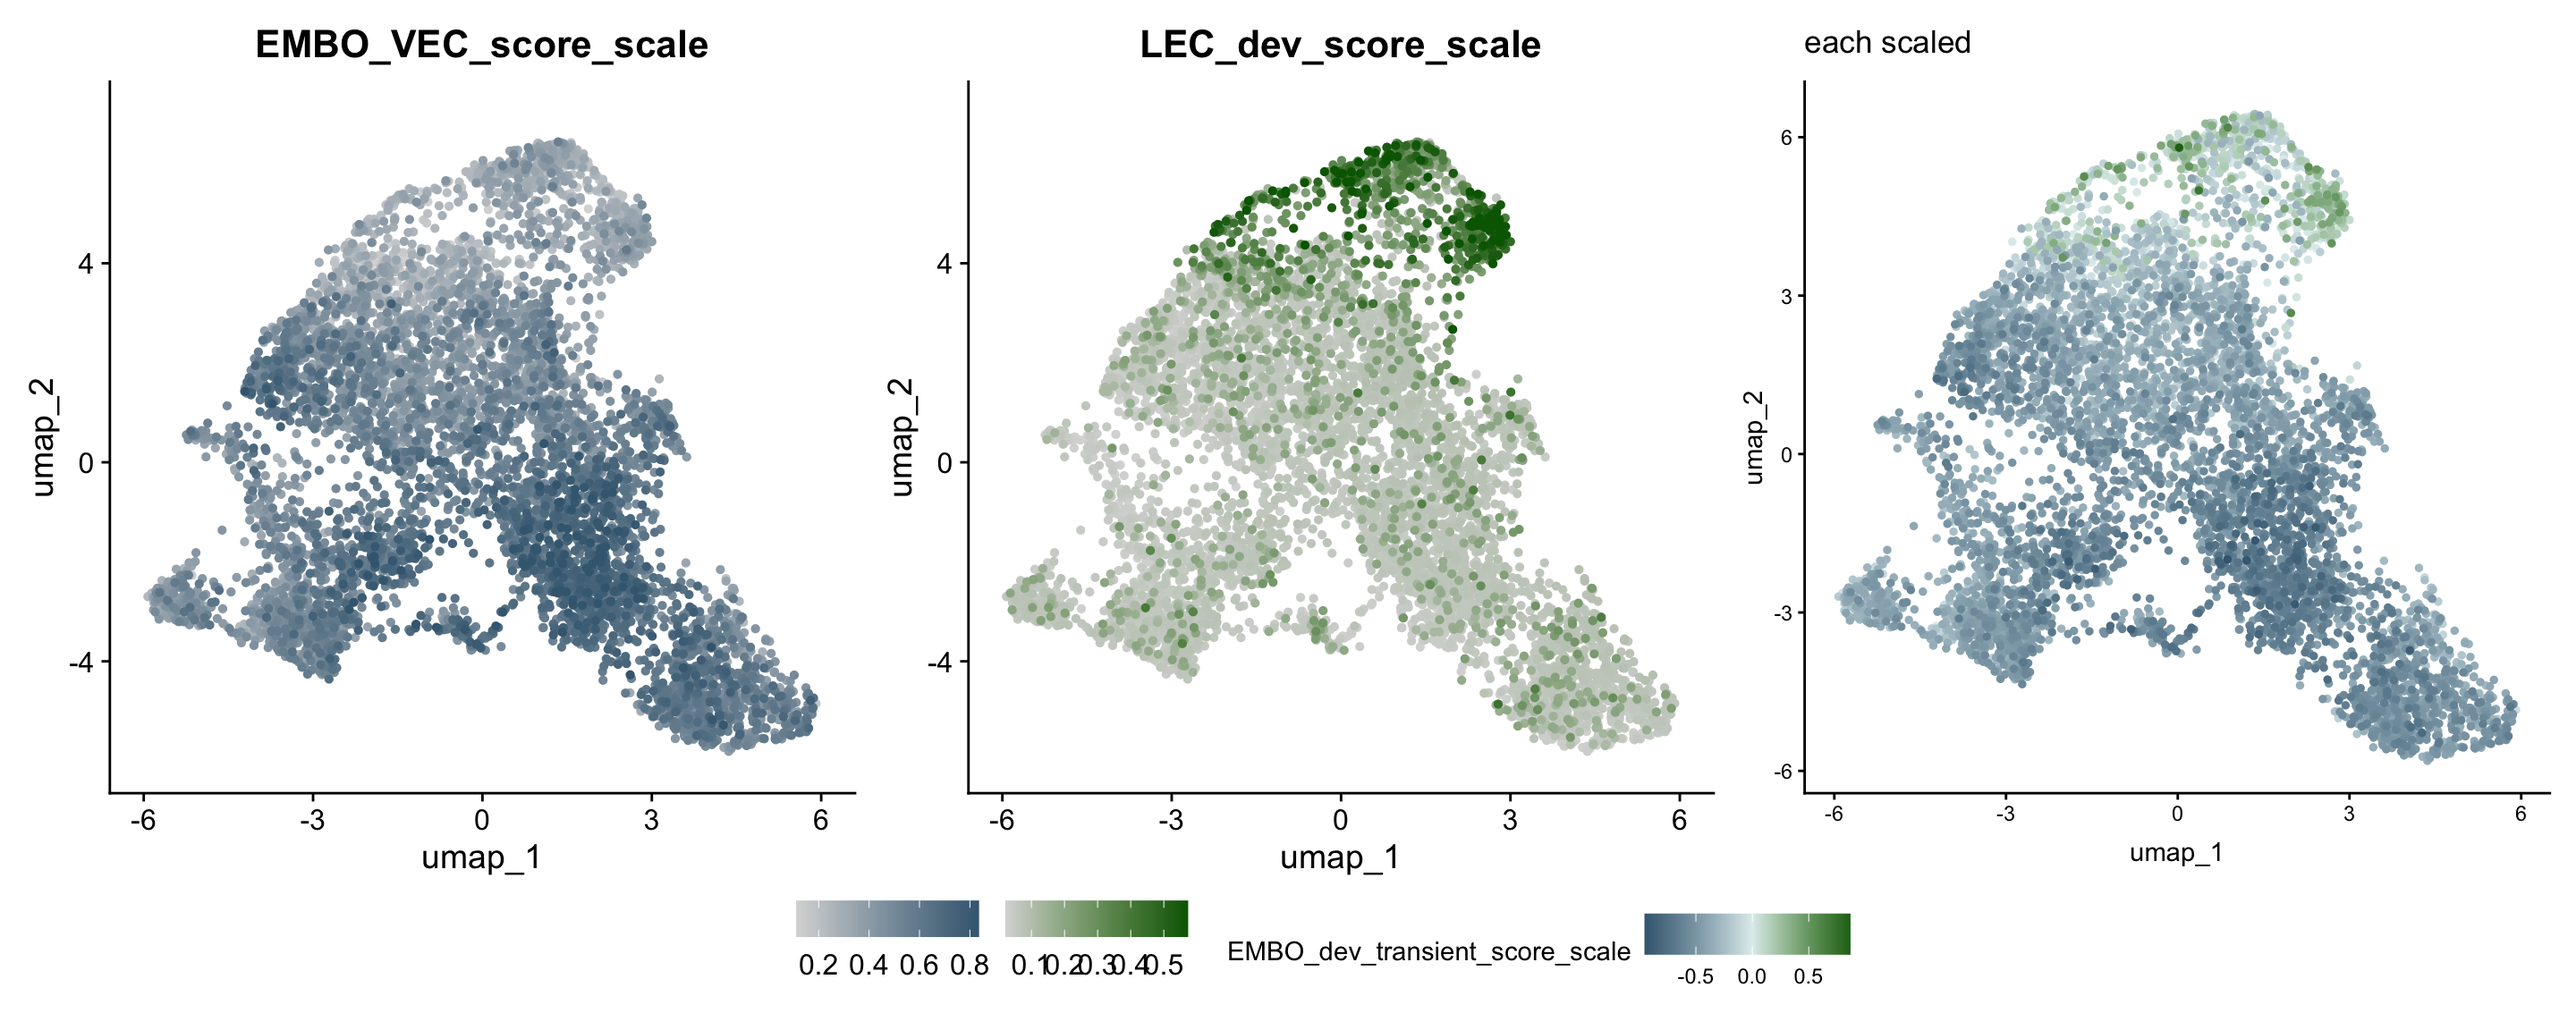
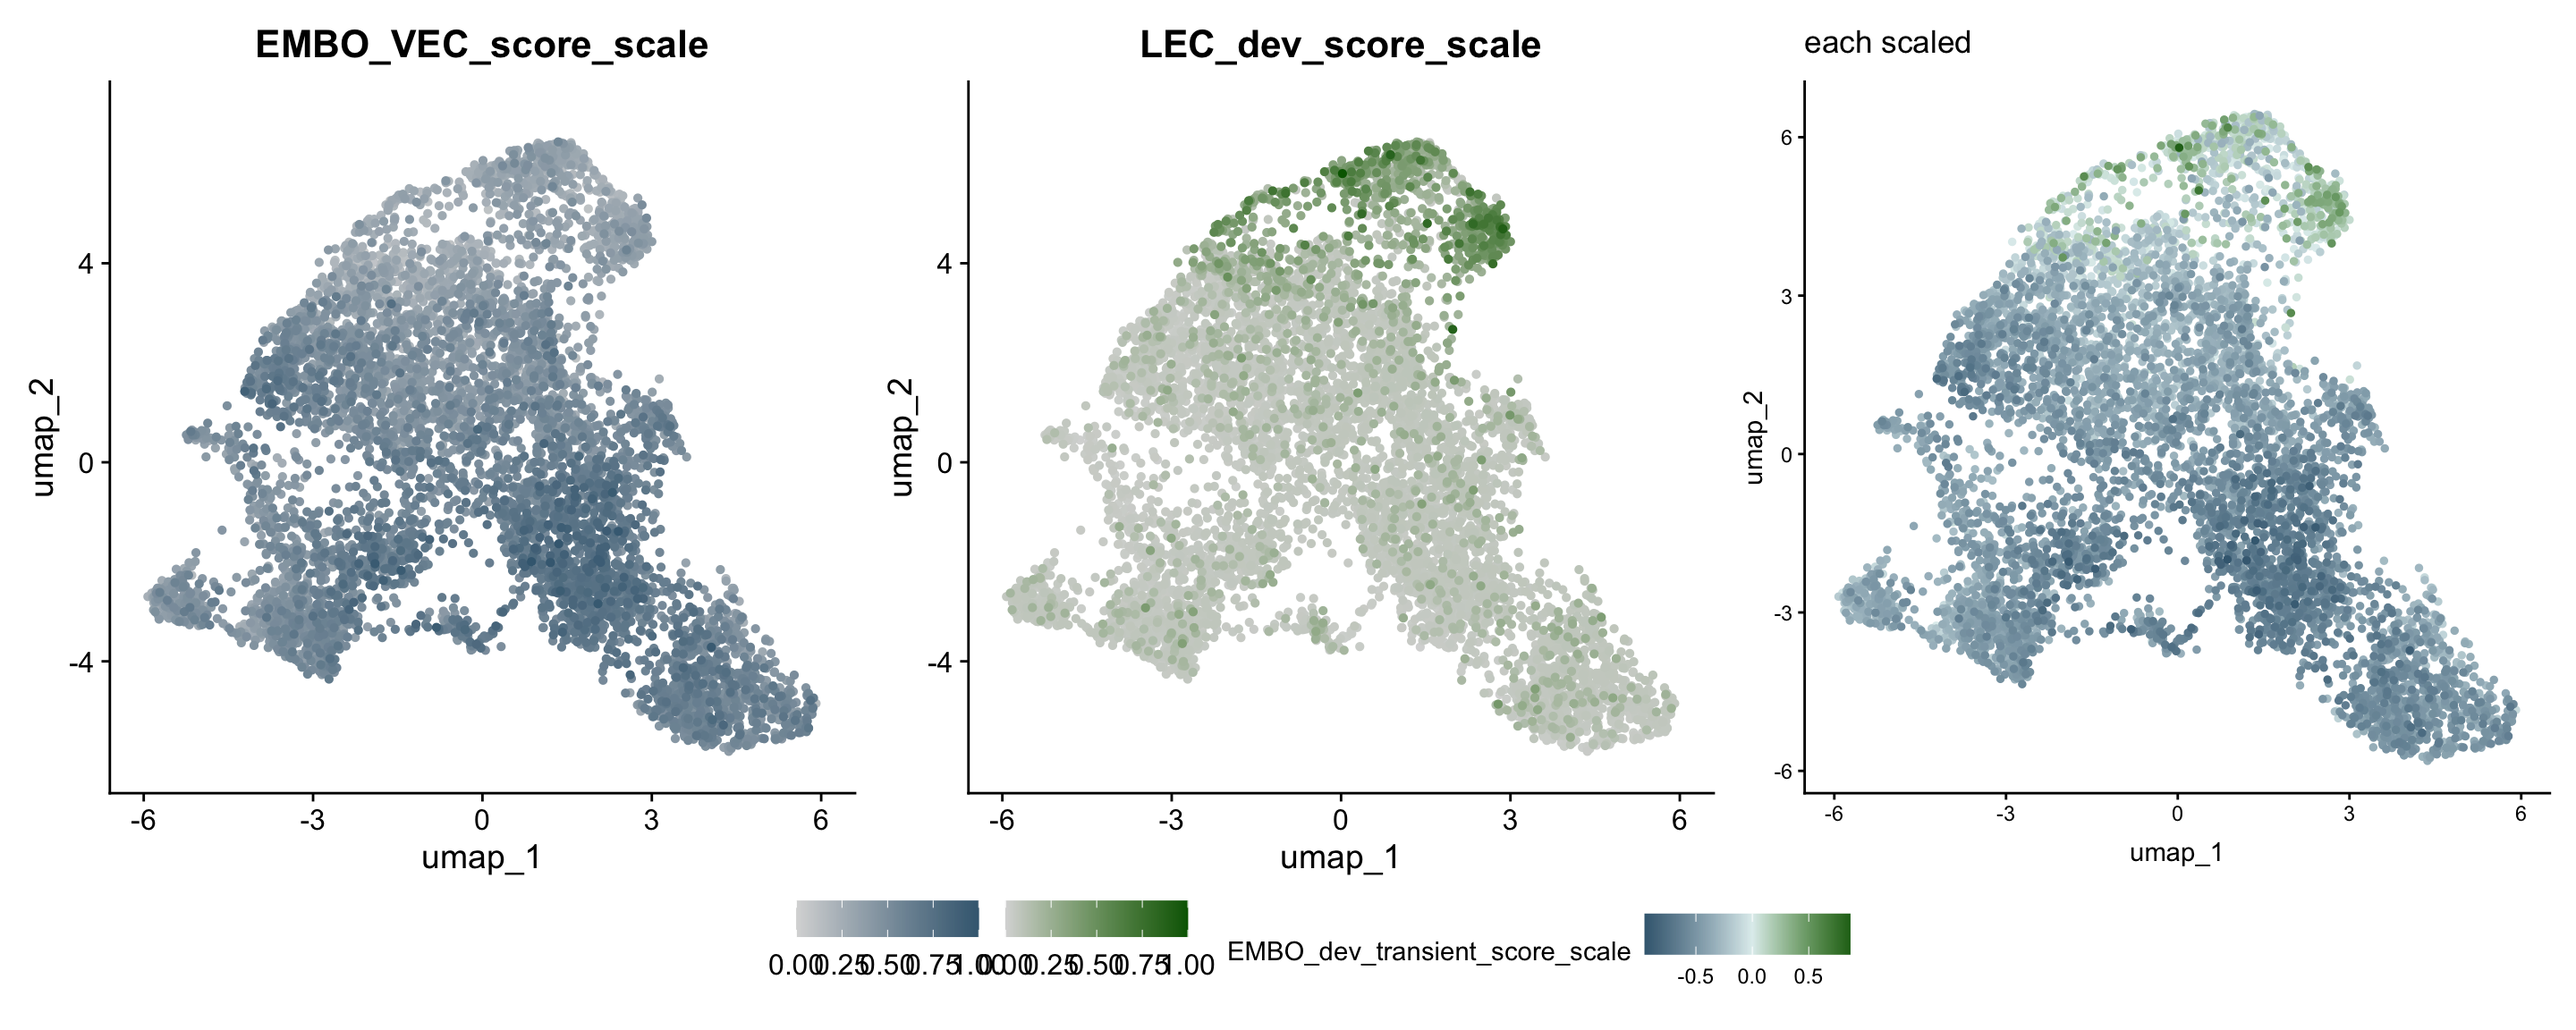
Build site.

diff --git a/docs/exploration_D10025_yap1_dataset_transition_scores.html b/docs/exploration_D10025_yap1_dataset_transition_scores.html
@@ -528,15 +528,15 @@ project makes it easier to run your code on other machines.</p>
 <div class="panel panel-default">
 <div class="panel-heading">
 <p class="panel-title">
-<a data-toggle="collapse" data-parent="#workflowr-checks" href="#strongRepositoryversionstrongahrefsshgitatlassianpetermacorgau7999hlwflowyap1meox1papertree27ec953de81e7f73925a90fb972334a59e62b94btargetblank27ec953a">
+<a data-toggle="collapse" data-parent="#workflowr-checks" href="#strongRepositoryversionstrongahrefsshgitatlassianpetermacorgau7999hlwflowyap1meox1papertreed6cf8936c0a8ba2f8e07a0d5eddda729df96978btargetblankd6cf893a">
 <span class="glyphicon glyphicon-ok text-success"
 aria-hidden="true"></span> <strong>Repository version:</strong>
-<a href="ssh://git@atlassian.petermac.org.au:7999/hl/wflow_yap1_meox1_paper/tree/27ec953de81e7f73925a90fb972334a59e62b94b" target="_blank">27ec953</a>
+<a href="ssh://git@atlassian.petermac.org.au:7999/hl/wflow_yap1_meox1_paper/tree/d6cf8936c0a8ba2f8e07a0d5eddda729df96978b" target="_blank">d6cf893</a>
 </a>
 </p>
 </div>
 <div
[2 lines of base64/hex data omitted]
 class="panel-collapse collapse">
 <div class="panel-body">
 <p>
@@ -546,7 +546,7 @@ reproducibility.
 </p>
 <p>
 The results in this page were generated with repository version
-<a href="ssh://git@atlassian.petermac.org.au:7999/hl/wflow_yap1_meox1_paper/tree/27ec953de81e7f73925a90fb972334a59e62b94b" target="_blank">27ec953</a>.
+<a href="ssh://git@atlassian.petermac.org.au:7999/hl/wflow_yap1_meox1_paper/tree/d6cf8936c0a8ba2f8e07a0d5eddda729df96978b" target="_blank">d6cf893</a>.
 See the <em>Past versions</em> tab to see a history of the changes made
 to the R Markdown and HTML files.
 </p>
@@ -565,7 +565,6 @@ Ignored files:
     Ignored:    .Rhistory
     Ignored:    .Rproj.user/
     Ignored:    analysis/.DS_Store
-    Ignored:    analysis/figure/
     Ignored:    code/.DS_Store
     Ignored:    code/scRNAseq/.DS_Store
     Ignored:    code/scRNAseq/analysis/.DS_Store
@@ -626,6 +625,40 @@ Message
 </tr>
 </thead>
 <tbody>
+<tr>
+<td>
+Rmd
+</td>
+<td>
+<a href="ssh://git@atlassian.petermac.org.au:7999/hl/wflow_yap1_meox1_paper/blob/d6cf8936c0a8ba2f8e07a0d5eddda729df96978b/analysis/exploration_D10025_yap1_dataset_transition_scores.Rmd" target="_blank">d6cf893</a>
+</td>
+<td>
+Michelle Meier
+</td>
+<td>
+2026-05-18
+</td>
+<td>
+wflow_publish("analysis/exploration_D10025_yap1_dataset_transition_scores.Rmd")
+</td>
+</tr>
+<tr>
+<td>
+html
+</td>
+<td>
+<a href="ssh://git@atlassian.petermac.org.au:7999/hl/wflow_yap1_meox1_paper/blob/eaa3ac0e55d7777a054030fe26664e422e67616c/docs/exploration_D10025_yap1_dataset_transition_scores.html" target="_blank">eaa3ac0</a>
+</td>
+<td>
+Michelle Meier
+</td>
+<td>
+2026-05-18
+</td>
+<td>
+Build site.
+</td>
+</tr>
 <tr>
 <td>
 Rmd
@@ -771,6 +804,43 @@ p2 &lt;- ggplot(md, aes(x = umap_1, y = umap_2, color = EMBO_dev_transient_score
 
 p1+p2 + plot_layout(guides=&quot;collect&quot;) &amp; theme(legend.position = &quot;bottom&quot;)</code></pre>
 <p><img src="figure/exploration_D10025_yap1_dataset_transition_scores.Rmd/unnamed-chunk-9-1.png" width="864" style="display: block; margin: auto;" /></p>
+<p>
+<button type="button" class="btn btn-default btn-xs btn-workflowr btn-workflowr-fig" data-toggle="collapse" data-target="#fig-unnamed-chunk-9-1">
+Past versions of unnamed-chunk-9-1.png
+</button>
+</p>
+<div id="fig-unnamed-chunk-9-1" class="collapse">
+<div class="table-responsive">
+<table class="table table-condensed table-hover">
+<thead>
+<tr>
+<th>
+Version
+</th>
+<th>
+Author
+</th>
+<th>
+Date
+</th>
+</tr>
+</thead>
+<tbody>
+<tr>
+<td>
+<a href="ssh://git@atlassian.petermac.org.au:7999/hl/wflow_yap1_meox1_paper/blob/eaa3ac0e55d7777a054030fe26664e422e67616c/docs/figure/exploration_D10025_yap1_dataset_transition_scores.Rmd/unnamed-chunk-9-1.png" target="_blank">eaa3ac0</a>
+</td>
+<td>
+Michelle Meier
+</td>
+<td>
+2026-05-18
+</td>
+</tr>
+</tbody>
+</table>
+</div>
+</div>
 <div id="no-scaling" class="section level2">
 <h2>No scaling</h2>
 <p>This is how we visualise the data on the UMAPs.</p>
@@ -850,6 +920,43 @@ plot &lt;- df_in %&gt;%
 
 plot </code></pre>
 <p><img src="figure/exploration_D10025_yap1_dataset_transition_scores.Rmd/unnamed-chunk-10-1.png" width="768" style="display: block; margin: auto;" /></p>
+<p>
+<button type="button" class="btn btn-default btn-xs btn-workflowr btn-workflowr-fig" data-toggle="collapse" data-target="#fig-unnamed-chunk-10-1">
+Past versions of unnamed-chunk-10-1.png
+</button>
+</p>
+<div id="fig-unnamed-chunk-10-1" class="collapse">
+<div class="table-responsive">
+<table class="table table-condensed table-hover">
+<thead>
+<tr>
+<th>
+Version
+</th>
+<th>
+Author
+</th>
+<th>
+Date
+</th>
+</tr>
+</thead>
+<tbody>
+<tr>
+<td>
+<a href="ssh://git@atlassian.petermac.org.au:7999/hl/wflow_yap1_meox1_paper/blob/eaa3ac0e55d7777a054030fe26664e422e67616c/docs/figure/exploration_D10025_yap1_dataset_transition_scores.Rmd/unnamed-chunk-10-1.png" target="_blank">eaa3ac0</a>
+</td>
+<td>
+Michelle Meier
+</td>
+<td>
+2026-05-18
+</td>
+</tr>
+</tbody>
+</table>
+</div>
+</div>
 <pre class="r"><code># filename &lt;- sprintf(&#39;%s/%s_module_score_dev_transition_celltype_boxplots_pvalue.pdf&#39;, save_dir, name_current)
 # ggsave(filename,
 #        plot,
@@ -886,6 +993,43 @@ df_in %&gt;%
                 position  = position_jitterdodge(jitter.width = 0.3, dodge.width = 0.75)) +
   facet_wrap(~score) + strip_fix + theme(legend.position = &quot;none&quot;)</code></pre>
 <p><img src="figure/exploration_D10025_yap1_dataset_transition_scores.Rmd/unnamed-chunk-12-1.png" width="672" style="display: block; margin: auto;" /></p>
+<p>
+<button type="button" class="btn btn-default btn-xs btn-workflowr btn-workflowr-fig" data-toggle="collapse" data-target="#fig-unnamed-chunk-12-1">
+Past versions of unnamed-chunk-12-1.png
+</button>
+</p>
+<div id="fig-unnamed-chunk-12-1" class="collapse">
+<div class="table-responsive">
+<table class="table table-condensed table-hover">
+<thead>
+<tr>
+<th>
+Version
+</th>
+<th>
+Author
+</th>
+<th>
+Date
+</th>
+</tr>
+</thead>
+<tbody>
+<tr>
+<td>
+<a href="ssh://git@atlassian.petermac.org.au:7999/hl/wflow_yap1_meox1_paper/blob/eaa3ac0e55d7777a054030fe26664e422e67616c/docs/figure/exploration_D10025_yap1_dataset_transition_scores.Rmd/unnamed-chunk-12-1.png" target="_blank">eaa3ac0</a>
+</td>
+<td>
+Michelle Meier
+</td>
+<td>
+2026-05-18
+</td>
+</tr>
+</tbody>
+</table>
+</div>
+</div>
 <p>Not sure we can make any great statements about the distribution of
 the LEC scores… They’re all pretty low.</p>
 <p>Run stats anyway?</p>
@@ -944,15 +1088,15 @@ transition.</p>
 <pre class="r"><code>vec &lt;- FeaturePlot(level_03,
                    features = &quot;EMBO_VEC_score_scale&quot;,
                       cols = c(&quot;#d9d9d9&quot;, &quot;#406880&quot;), pt.size = 1,
-                      min.cutoff = &quot;q1&quot;,
-                      max.cutoff =  &quot;q99&quot;,
+                      min.cutoff = 0,
+                      max.cutoff =  1,
                       order = T)
 
 lec &lt;- FeaturePlot(level_03,
                    features = &quot;LEC_dev_score_scale&quot;,
                       cols = c(&quot;#d9d9d9&quot;, &quot;darkgreen&quot;),pt.size = 1,
-                      min.cutoff = &quot;q1&quot;,
-                      max.cutoff =  &quot;q99&quot;,
+                      min.cutoff = 0,
+                      max.cutoff =  1,
                       order = T)
 
 md &lt;- level_03[[]]
@@ -973,6 +1117,43 @@ trans &lt;- ggplot(md, aes(x = umap_1, y = umap_2, color = EMBO_dev_transient_sc
 
 vec + lec + trans + plot_layout(ncol=3, guides = &quot;collect&quot;, axes=&quot;collect&quot;) &amp; theme(legend.position = &quot;bottom&quot;)</code></pre>
 <p><img src="figure/exploration_D10025_yap1_dataset_transition_scores.Rmd/unnamed-chunk-16-1.png" width="1440" style="display: block; margin: auto;" /></p>
+<p>
+<button type="button" class="btn btn-default btn-xs btn-workflowr btn-workflowr-fig" data-toggle="collapse" data-target="#fig-unnamed-chunk-16-1">
+Past versions of unnamed-chunk-16-1.png
+</button>
+</p>
+<div id="fig-unnamed-chunk-16-1" class="collapse">
+<div class="table-responsive">
+<table class="table table-condensed table-hover">
+<thead>
+<tr>
+<th>
+Version
+</th>
+<th>
+Author
+</th>
+<th>
+Date
+</th>
+</tr>
+</thead>
+<tbody>
+<tr>
+<td>
+<a href="ssh://git@atlassian.petermac.org.au:7999/hl/wflow_yap1_meox1_paper/blob/eaa3ac0e55d7777a054030fe26664e422e67616c/docs/figure/exploration_D10025_yap1_dataset_transition_scores.Rmd/unnamed-chunk-16-1.png" target="_blank">eaa3ac0</a>
+</td>
+<td>
+Michelle Meier
+</td>
+<td>
+2026-05-18
+</td>
+</tr>
+</tbody>
+</table>
+</div>
+</div>
 <p>I think one of the issues is that almost all cells have a VEC
 signature, but only very few have a LEC signature- but the ones that do
 have a very strong one.</p>
@@ -1040,6 +1221,43 @@ plot &lt;- df_in %&gt;%
 
 plot </code></pre>
 <p><img src="figure/exploration_D10025_yap1_dataset_transition_scores.Rmd/unnamed-chunk-17-1.png" width="672" style="display: block; margin: auto;" /></p>
+<p>
+<button type="button" class="btn btn-default btn-xs btn-workflowr btn-workflowr-fig" data-toggle="collapse" data-target="#fig-unnamed-chunk-17-1">
+Past versions of unnamed-chunk-17-1.png
+</button>
+</p>
+<div id="fig-unnamed-chunk-17-1" class="collapse">
+<div class="table-responsive">
+<table class="table table-condensed table-hover">
+<thead>
+<tr>
+<th>
+Version
+</th>
+<th>
+Author
+</th>
+<th>
+Date
+</th>
+</tr>
+</thead>
+<tbody>
+<tr>
+<td>
+<a href="ssh://git@atlassian.petermac.org.au:7999/hl/wflow_yap1_meox1_paper/blob/eaa3ac0e55d7777a054030fe26664e422e67616c/docs/figure/exploration_D10025_yap1_dataset_transition_scores.Rmd/unnamed-chunk-17-1.png" target="_blank">eaa3ac0</a>
+</td>
+<td>
+Michelle Meier
+</td>
+<td>
+2026-05-18
+</td>
+</tr>
+</tbody>
+</table>
+</div>
+</div>
 <pre class="r"><code># filename &lt;- sprintf(&#39;%s/%s_module_score_dev_transition_celltype_boxplots_pvalue.pdf&#39;, save_dir, name_current)
 # ggsave(filename,
 #        plot,
@@ -1069,6 +1287,43 @@ df_in %&gt;%
                 position  = position_jitterdodge(jitter.width = 0.3, dodge.width = 0.75)) +
   facet_wrap(~score) + strip_fix + theme(legend.position = &quot;none&quot;)</code></pre>
 <p><img src="figure/exploration_D10025_yap1_dataset_transition_scores.Rmd/unnamed-chunk-18-1.png" width="672" style="display: block; margin: auto;" /></p>
+<p>
+<button type="button" class="btn btn-default btn-xs btn-workflowr btn-workflowr-fig" data-toggle="collapse" data-target="#fig-unnamed-chunk-18-1">
+Past versions of unnamed-chunk-18-1.png
+</button>
+</p>
+<div id="fig-unnamed-chunk-18-1" class="collapse">
+<div class="table-responsive">
+<table class="table table-condensed table-hover">
+<thead>
+<tr>
+<th>
+Version
+</th>
+<th>
+Author
+</th>
+<th>
+Date
+</th>
+</tr>
+</thead>
+<tbody>
+<tr>
+<td>
+<a href="ssh://git@atlassian.petermac.org.au:7999/hl/wflow_yap1_meox1_paper/blob/eaa3ac0e55d7777a054030fe26664e422e67616c/docs/figure/exploration_D10025_yap1_dataset_transition_scores.Rmd/unnamed-chunk-18-1.png" target="_blank">eaa3ac0</a>
+</td>
+<td>
+Michelle Meier
+</td>
+<td>
+2026-05-18
+</td>
+</tr>
+</tbody>
+</table>
+</div>
+</div>
 <br>
 <p>
 <button type="button" class="btn btn-default btn-workflowr btn-workflowr-sessioninfo" data-toggle="collapse" data-target="#workflowr-sessioninfo" style="display: block;">
